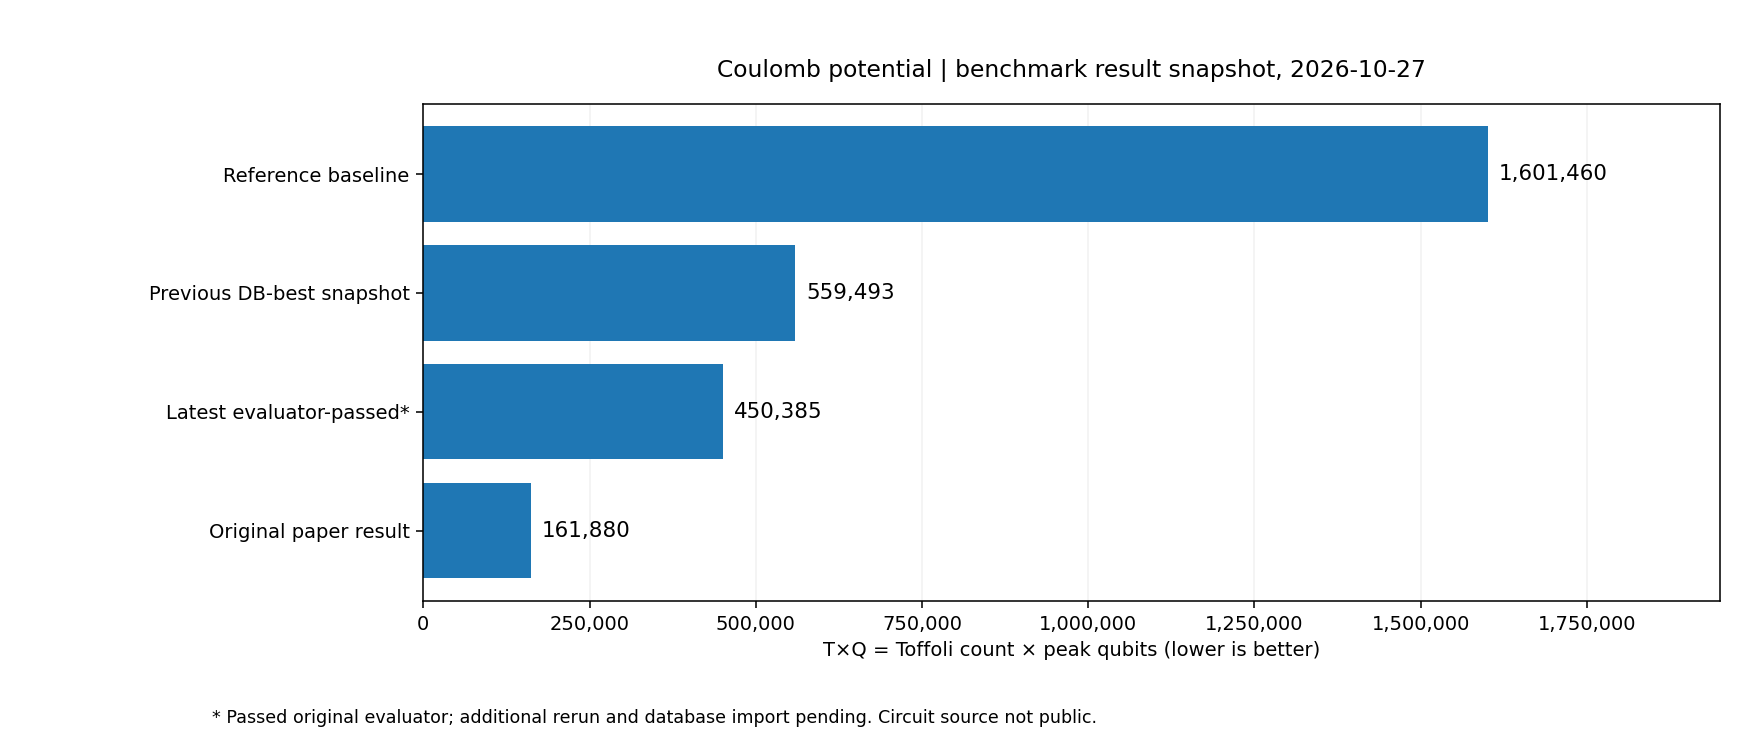
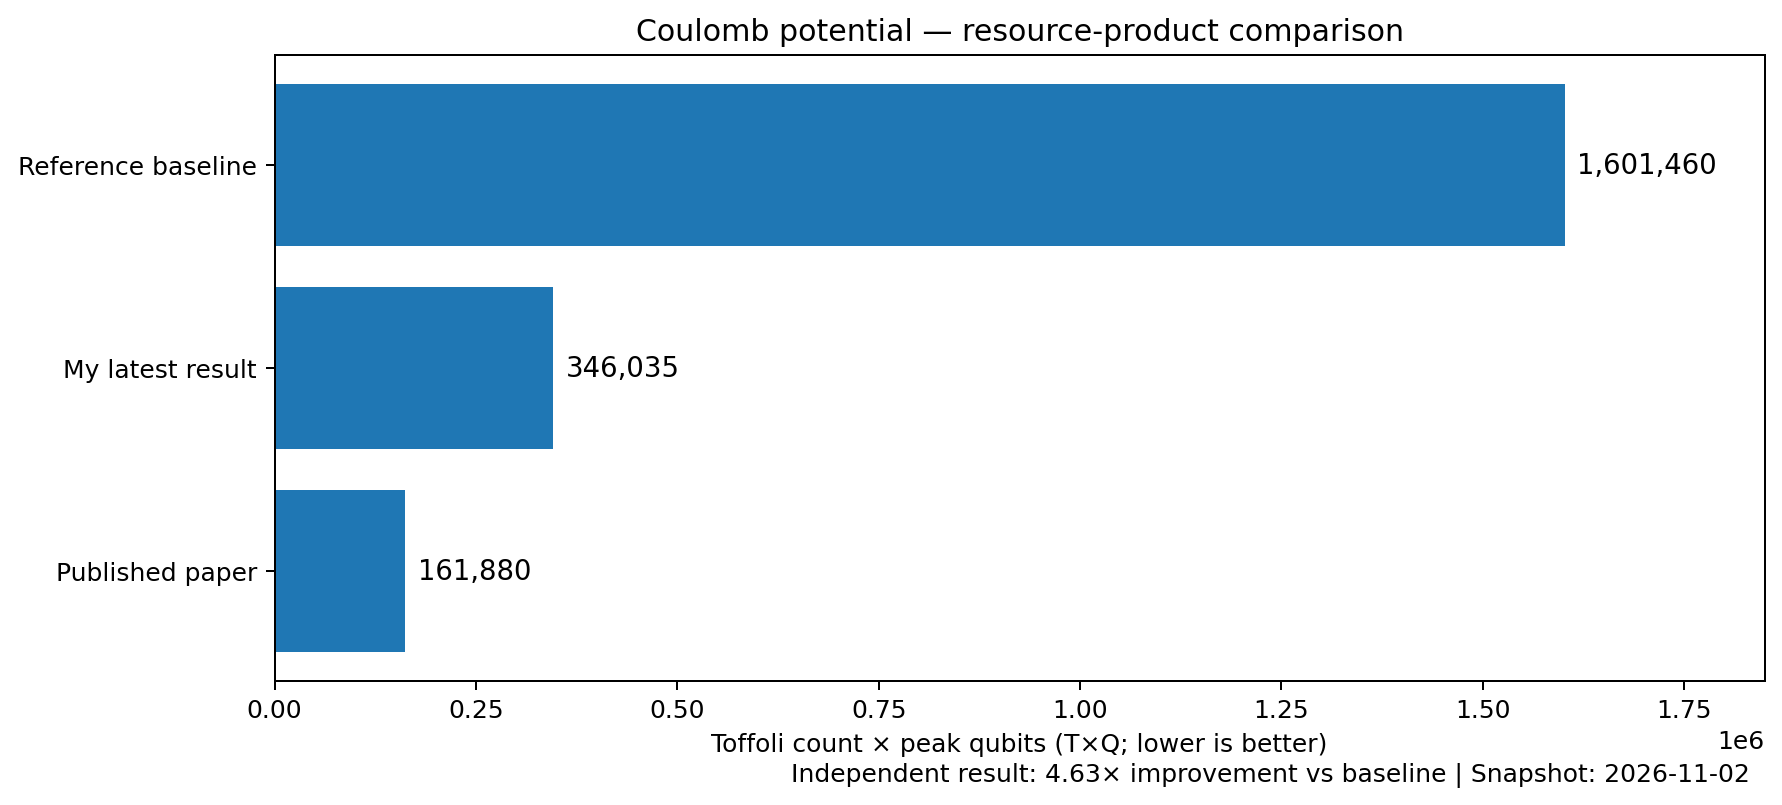
Update research results to v0.4 (2026-11-02)
Update Coulomb potential results to T×Q = 346,035 (4.63× improvement). Add preliminary A/B experiment findings, updated cost records, and revised benchmark comparison.

Changed region(s): [[0.0, 0.031, 0.9977, 0.9919], [0.9666, 0.8989, 0.9977, 0.9609]]

diff --git a/README.md b/README.md
@@ -1,47 +1,57 @@
-# LLM-Guided Quantum Circuit Optimization — Independent Research Notes
+# LLM-Assisted Quantum Circuit Optimization — Independent Research Notes
 
-**Public research note v0.3 · Coulomb potential · 2026-10-27 (Asia/Taipei)**
+**Public research note v0.4 · Coulomb potential · Research snapshot: 2026-11-02 (Asia/Taipei)**
 
-> **Work in progress; an early result report, not a reproducible software release.** The latest candidate passed the **original reference evaluator**, and its evaluation result and source snapshot were archived in the private research environment according to dated records. The candidate has **not yet been independently re-run or incorporated into the evolutionary database**. Neither its circuit source nor the evaluator log is included in this public note, so third parties cannot reproduce or verify the result from this repository alone.
+> **Work in progress.** This is a dated results report, **not** a runnable replication package or a state-of-the-art claim. The results below are documented in private VM audit and experiment handoff records. The latest candidate and complete evaluation logs have **not** been exported into this public repository; external reproduction is not yet possible from these files alone.
 
-## Research question
+## From a published result to an independent experiment
 
-Can a resource-conscious, independently assembled LLM-assisted workflow discover valid reductions in the resource cost of reversible quantum circuits?
+Inspired by Gu *et al.* (2026), [*Discovering state-of-the-art quantum circuits with large language models*](https://arxiv.org/abs/2610.22367), this project asks whether an independently assembled, resource-conscious LLM-assisted workflow can find better reversible quantum circuits. It combines a coding agent, evolutionary search, and the original [uncompute](https://github.com/andigu/uncompute) evaluator. Most of the study's implementation remains unpublished while experiments continue.
 
-This personal AI-for-Science experiment was inspired by **Gu, Kemeny, Yelin, and Lukin (2026)**, [*Discovering state-of-the-art quantum circuits with large language models*](https://arxiv.org/abs/2610.22367). It uses existing publicly available tools and the original research evaluator. **It does not claim to reproduce the authors' full system, invent LLM-and-evaluator-guided search, or match the published best result.**
+## Coulomb potential: updated result
 
-## Early result: Coulomb potential
+The resource-product objective is **T×Q**: Toffoli count × peak qubit count, **not** running time.
 
-The objective is **TQ = T × Q**, where T is the reference evaluator's Toffoli count and Q is its peak live-qubit count.
+| Result | T×Q | Improvement vs. baseline |
+|---|---:|---:|
+| Reference baseline | **1,601,460** | 1.00× |
+| This project's earlier public snapshot (2026-10-27) | **450,385** | 3.56× |
+| **Latest evaluator-validated result in the treatment database (2026-11-02)** | **346,035** | **4.63×** |
+| Gu *et al.* published result | **161,880** | 9.89× |
 
-| Comparison | Toffoli T | Peak qubits Q | TQ cost | Relative baseline gain |
-| --- | ---: | ---: | ---: | ---: |
-| Reference baseline | 6,355 | 252 | **1,601,460** | 1.00× |
-| Previously confirmed internal database best | — | — | **559,493** | 2.86× |
-| **Latest original-evaluator-passed candidate (2026-10-27)** | **2,197** | **205** | **450,385** | **3.56×** |
-| Published result of Gu *et al.* | 1,140 | 142 | **161,880** | 9.89× |
+The latest candidate reduces T×Q by **78.4%** versus baseline. The best candidate is recorded in an **isolated experimental database (117 programs)**. A separate production database (79 programs) remained at **348,775**, deliberately unchanged during this controlled comparison. **The T and Q components and full source for the 346,035 candidate have not yet been exported into the supplied handoff.** Evaluator acceptance is not a formal proof of functional equivalence.
 
-The latest evaluator-passed candidate represents a **71.9% reduction in TQ** versus the reference baseline. This is a quantum-circuit **resource-product metric**, not a measured runtime speedup. The original paper reported a substantially stronger result.
+![T×Q resource-product comparison](assets/tq_comparison.png)
 
-![Coulomb resource-product comparison](assets/tq_comparison.png)
+## Exploratory comparison: research-agent configurations
 
-### What the reported result means
+An exploratory five-round-per-arm comparison used two separately evolving experimental configurations, starting from identical databases of 79 candidates. **Configuration details are not yet disclosed**; the comparison is presented as an observed research outcome, not as evidence for a particular technique.
 
-- In the latest dated experiment, the original evaluator produced a `valid=true` result for a candidate with **T=2,197** and **Q=205**; the saved source and result snapshot were preserved and checked for file consistency, according to the internal handoff.
-- **An additional rerun, integration into the evolutionary database, and a post-import database check remain pending.** The latest *database* best in the available record is **559,493**. Thus **450,385 is the latest evaluator-passed candidate, not a confirmed database-best state**.
-- The reference evaluator uses specified tests, rather than an exhaustive formal proof of functional equivalence. A successful evaluator result is evidence under that test protocol; it is not a universal correctness guarantee.
-- The result is based on dated internal experiment records, **not independently audited by this public repository**.
+| Five-round outcome | Configuration A | Configuration B |
+|---|---:|---:|
+| Retained SHA-unique, evaluator-validated new candidates | 9 | **38** |
+| Best newly produced candidate T×Q | 415,529 | **346,035** |
+| Final database-wide best T×Q | 348,775 | **346,035** |
 
-The broader original study contains **eight benchmarks**; this experiment has currently explored **one**, Coulomb potential.
+Configuration B retained **4.22×** as many unique candidates, and its best newly produced candidate had **16.7%** lower T×Q than the best new candidate under A. However, the *final database-wide best* improved by only **0.79%** relative to the identical starting best of 348,775. These comparisons use **different denominators** and should not be conflated.
 
-## Scope and unpublished implementation
+**Limitations:** only five rounds per configuration; later runs did not use matched parents; candidates within a session are not statistically independent; the configurations differ in more than one respect. These observations **do not establish causality, statistical significance, or generalization** to the other seven benchmarks.
 
-At a high level, the experiment combines **an LLM coding agent, evolutionary search, and the original reference evaluator**. The full prompts, agent workflow, model settings, search policy, orchestration code, circuit sources, and search logs remain **unpublished research know-how**. Therefore, this is **not a runnable replication package**; neither a software release nor a complete reproducibility claim is implied.
+## Recorded research spending (billing snapshot, 2026-11-02)
 
-## Attribution and research status
+| Item | USD |
+|---|---:|
+| Google Cloud usage, after shown discounts, before tax | $96.00 |
+| Google Cloud tax shown | $5.00 |
+| DeepSeek API cumulative charges | $17.15 |
+| **Combined charges including shown tax** | **$118.15** |
 
-The project uses DeepSeek, OpenCode, OpenEvolve/MAP-Elites, and the original [uncompute evaluator](https://github.com/andigu/uncompute). See [references and attribution](REFERENCES.md), [result and evidence details](RESULTS.md), and [rights notice](RIGHTS.md).
+The author estimates approximately **$15–$20 of Google Cloud charges** arose from extended VM idle time. These are account charges, **not** a rigorous per-experiment cost or a controlled price/performance measurement. They include development and nonproductive time; the latest experiment's marginal costs have not been isolated.
 
-The experiment is ongoing. Future releases may update the results or add methods and reproducibility materials after the research and disclosure strategy is settled. Publication of this summary does not promise when or whether the unpublished implementation will be released.
+## Disclosure and attribution
 
-**Language:** [繁體中文](README_zh-TW.md)
+This project currently covers **one of eight tasks** in the paper. The evaluator, benchmark, general LLM/evolutionary search concepts, and third-party tools are credited in [REFERENCES.md](REFERENCES.md). The independent contributions so far include assembling and operating the workflow and documenting its empirical performance.
+
+Detailed prompts, agent configuration, orchestration, search policies, candidate source code, and private evaluation records are **not included**. We intend to publish a more complete implementation after the study is sufficiently mature and reviewed for safety, licenses, and attribution. See [RESULTS.md](RESULTS.md) and [RIGHTS.md](RIGHTS.md).
+
+[繁體中文](README_zh-TW.md) · [Earlier 2026-10-27 public result snapshot](data/public-results-2026-10-27.json)

diff --git a/README_zh-TW.md b/README_zh-TW.md
@@ -1,43 +1,57 @@
 # LLM 輔助量子電路最佳化：獨立研究紀錄
 
-**公開研究紀錄 v0.3｜Coulomb potential｜2026-10-27（臺灣時間）**
+**公開研究紀錄 v0.4｜Coulomb potential｜研究資料截至 2026-11-02（臺灣時間）**
 
-> **研究進行中；此為初步成果報告，不是可重現的程式釋出。** 最新候選已通過**原論文 Evaluator**，依交接紀錄，其評估結果與電路程式快照已備份並核對一致性；但**尚未完成額外重跑，也尚未回存演化資料庫**。此公開版本不含候選電路與評估日誌，外部讀者無法僅用本 repo 重現結果。
+> **研究仍在進行中。** 本專案目前是研究成果紀錄，**不是**完整可執行的重現套件，也不宣稱達到原論文最佳結果。下列數據依私人 GCP VM 稽核及交接紀錄整理；最新電路完整源碼與原始評估日誌尚未匯入公開 repo，因此外部無法僅憑本 repo 重現。
 
-## 研究問題
+## 研究背景
 
-以個人可負擔的模型與運算資源，結合 LLM Coding Agent、演化式搜尋及原始評估器，能否降低可逆量子電路的資源成本？
+受到 Gu 等人（2026）[《Discovering state-of-the-art quantum circuits with large language models》](https://arxiv.org/abs/2610.22367) 啟發，這項個人 AI for Science 研究嘗試以可負擔的 LLM、Coding Agent、演化搜尋及原作者公開的 [uncompute](https://github.com/andigu/uncompute) Evaluator，改善可逆量子電路的資源成本。
 
-這項個人 AI for Science 實驗受到 Gu 等人（2026）[《Discovering state-of-the-art quantum circuits with large language models》](https://arxiv.org/abs/2610.22367) 啟發。它並不宣稱重現原作者完整系統、發明此類搜尋方法，或達到原研究最佳結果。
+## Coulomb potential：最新結果
 
-## Coulomb potential：已取得的初步成果
+研究指標為 **T×Q＝Toffoli gate 數量 × 最大同時使用 qubit 數**，不是實際執行速度。
 
-目標指標為 **T×Q**：Toffoli gate 數目 T 乘以評估器計算的最大同時使用 qubit 數 Q。
+| 項目 | T×Q | 相對基準改善 |
+|---|---:|---:|
+| 原始基準 | **1,601,460** | 1.00 倍 |
+| 之前公開結果（2026/10/27） | **450,385** | 3.56 倍 |
+| **2026/11/02 實驗資料庫最新已驗證成果** | **346,035** | **4.63 倍** |
+| Gu 等人原論文最佳 | **161,880** | 9.89 倍 |
 
-| 比較對象 | Toffoli T | Qubits Q | T×Q 成本 | 相對基準改善 |
-| --- | ---: | ---: | ---: | ---: |
-| 原始基準 | 6,355 | 252 | **1,601,460** | 1.00 倍 |
-| 前次確認的資料庫最佳值 | — | — | **559,493** | 2.86 倍 |
-| **最新通過原 Evaluator 的候選（2026/10/27）** | **2,197** | **205** | **450,385** | **3.56 倍** |
-| 原論文報告的最佳值 | 1,140 | 142 | **161,880** | 9.89 倍 |
+最新成果相對基準將 T×Q **降低約 78.4%**，且已記錄於**隔離的實驗組資料庫（117 個程式）**。正式研究資料庫（79 個程式）的最佳值則維持 **348,775**，沒有在對照實驗時合併改寫。最新 346,035 電路的 T、Q 分量與完整程式碼尚未從 VM 匯出到此次交接包，不應臆測其架構。通過 Evaluator 也不等於完成形式化正確性證明。
 
-最新候選相對基準將 T×Q **降低約 71.9%**；這是電路資源指標，**不是執行時間縮短 3.56 倍**。原論文成果仍顯著優於目前結果。
+![Coulomb T×Q 資源成本比較圖](assets/tq_comparison.png)
 
-![Coulomb T×Q 成本比較](assets/tq_comparison.png)
+## 初步對照實驗：不同研究 Agent 設定
 
-### 驗證層級與目前狀態
+兩組各五輪，從相同的 79 個初始候選分別建立資料庫，觀察不同 Research Agent 設定的搜尋結果。**具體設定與調整策略暫不公開**；此處僅報告探索性觀察，不將差異歸因於特定機制。
 
-- 依最新實驗交接紀錄，原始 Evaluator 對此候選回報 **`valid=true`**，並測得 **T=2,197、Q=205**；相關程式及結果快照已備份，並做過檔案一致性核對。
-- **額外重跑、資料庫回存及回存後檢查仍未完成。** 因此，450,385 是「**目前最佳已通過原 Evaluator 的候選**」，不是「目前已確認的資料庫最佳值」。前一次資料庫快照的最佳仍是 559,493。
-- 原 Evaluator 按其指定測試檢查行為，**並不構成全部輸入情況的形式化正確性證明**。
-- 這些資訊來自有日期的私人交接與執行紀錄，並非已對外公開、可第三方獨立稽核的證據。
+| 五輪結果 | 設定 A | 設定 B |
+|---|---:|---:|
+| 保留且 SHA 唯一的已驗證新候選 | 9 | **38** |
+| 五輪最佳新候選 T×Q | 415,529 | **346,035** |
+| 最後資料庫全域最佳 T×Q | 348,775 | **346,035** |
 
-目前僅探索原研究**八項任務中的 Coulomb potential 一項**。
+設定 B 保留的不同新候選數為設定 A 的 **4.22 倍**；兩組「五輪最佳新候選」的 T×Q 相差約 **16.7%**。不過，若比較「資料庫最後全域最佳」，則僅較共同起點 **348,775 下降 0.79%**，這兩種比較口徑不能混用。
 
-## 公開範圍及未公開 know-how
+**限制：**每組僅五輪；後續 Parent 未一一配對；同一 Session 的候選並非統計獨立；兩組設定有多項差異。因此**不能推論特定機制的因果效果**，也不能宣稱統計顯著或可推廣至其他七個任務。
 
-研究大方向是 LLM Coding Agent、演化搜尋與原 Evaluator 的整合；**完整 Prompt、Agent 工作流程、演化／挑選設定、控制器程式、候選電路及實驗日誌暫不公開**。因此本 repo 是**研究進度紀錄，而非完整開源重現套件**。
+## 累計帳單（2026/11/02 截圖）
 
-使用的 DeepSeek、OpenCode、OpenEvolve/MAP-Elites 與原作者 [uncompute 評估器](https://github.com/andigu/uncompute)，均於[引用與致謝](REFERENCES.md)標示來源。更多細節見[結果與驗證狀態](RESULTS.md)及[權利說明](RIGHTS.md)。研究仍在進行中，後續視成果、可重現性及發表規劃再決定公開方式。
+| 項目 | 美元 |
+|---|---:|
+| Google Cloud 顯示折扣後、未稅小計 | $96.00 |
+| Google Cloud 顯示稅金 | $5.00 |
+| DeepSeek API 累計消費 | $17.15 |
+| **合計（含畫面稅金）** | **$118.15** |
 
-[English README](README.md)
+其中你估計約 **$15–$20 的 GCP 費用來自 VM 長時間閒置**。這是已記錄的帳單金額，**不是單次實驗的純運算成本**；尚未核算完整的每次搜尋／每美元表現。
+
+## 公開範圍
+
+研究目前僅涵蓋原論文**八項任務中的一項**。原論文、任務、Evaluator 以及第三方工具皆於 [REFERENCES.md](REFERENCES.md) 標明出處；目前的獨立工作包括系統整合、實驗執行與結果整理。
+
+完整 Prompt、Agent 設定、控制器、演化策略、候選電路及私有日誌**暫不公開**，未來研究更成熟後，計畫整理可重現的程式與證據再釋出。詳見 [RESULTS.md](RESULTS.md)、[RIGHTS.md](RIGHTS.md)。
+
+[English README](README.md) · [2026/10/27 舊版成果紀錄](data/public-results-2026-10-27.json)

diff --git a/RESULTS.md b/RESULTS.md
@@ -1,25 +1,47 @@
-# Coulomb potential — results and evidence status
+# Coulomb Potential — Results and Evidence Status
 
-**Dated snapshot:** 2026-10-27, Asia/Taipei. **Work in progress.** This is a public progress report, not a runnable replication package.
+**Public snapshot: 2026-11-02 (Asia/Taipei).** Private-VM audit and handoff summary, not an independent execution of the quantum evaluator by this public repository.
 
-| Metric | Value | Status |
-| --- | ---: | --- |
-| Baseline TQ | 1,601,460 | Reference baseline |
-| Previous confirmed internal database best | 559,493 | Earlier database/preflight record |
-| **Latest original-evaluator-passed candidate** | **450,385** | **Original evaluator `valid=true`; preserved result/source snapshot** |
-| Latest candidate T / Q | 2,197 / 205 | Original evaluator measurements |
-| Relative improvement against baseline | 3.556× | Baseline / latest evaluated candidate |
-| Relative TQ cost reduction | 71.877% | `(1 - 450385 / 1601460) × 100` |
-| Published reference-paper result | 161,880 | Gu et al. (2026) |
-| Original benchmark tasks explored | 1 of 8 | Coulomb only |
+## Benchmark and achieved progress
 
-## Two different statuses, neither concealed nor conflated
+| Stage | T×Q | Baseline / T×Q | State |
+|---|---:|---:|---|
+| Reference baseline | 1,601,460 | 1.000× | From original benchmark |
+| 2026-10-27 previously published candidate | 450,385 | 3.556× | Earlier original-evaluator-passed candidate; now historical |
+| 2026-11-01 production database | 348,775 | 4.592× | Validated historical best, 79 programs |
+| **2026-11-02 experimental treatment database** | **346,035** | **4.628×** | **Evaluator-validated, recorded in isolated DB of 117 programs** |
+| Gu *et al.* (2026) reported result | 161,880 | 9.893× | Original study |
 
-1. **Original-evaluator-passed result (450,385):** According to the dated internal handoff, a test on the original evaluator yielded `valid=true`, with an archived, file-consistency-checked circuit and result snapshot. This is **the strongest evaluated candidate reported so far**.
-2. **Database acceptance (last known best 559,493):** A subsequent validation rerun and import into the MAP-Elites database have not occurred for the 450,385 candidate as of this handoff. This is a **workflow/storage status**, not evidence that the reference evaluator rejected the new candidate.
+The latest result represents a 78.4% T×Q reduction relative to the baseline, versus 71.9% at the 2026-10-27 public snapshot. The original paper remains substantially ahead.
 
-The evaluator checks specified behaviors on selected inputs and computes resource counts. **Evaluator acceptance is not formal proof of circuit equivalence**. Because neither the candidate source nor original evaluator report is supplied in this public note, an external reader cannot audit or reproduce the result from this repository alone.
+**Evidence level:** The handoff records report the treatment database's best as T×Q=346,035, with a latest read-only safety preflight marked PASS. They do **not** contain the full latest VM database or the newly best candidate's exported code and original evaluator log; accordingly, the public report cannot be independently reproduced from this repository. The separate production database remains at 348,775 by design. No T or Q breakdown is asserted for the latest candidate.
 
-The internal experiment may continue; these are dated, non-live figures. Full agent instructions, evolutionary search policies, orchestration code, candidate circuit sources, and detailed logs remain unpublished.
+## Exploratory five-round comparison (two configurations)
 
-The structured public summary is in [data/public-results-2026-10-27.json](data/public-results-2026-10-27.json).
+| Metric | Configuration A | Configuration B |
+|---|---:|---:|
+| Initial database size | 79 | 79 |
+| Completed rounds | 5 | 5 |
+| Retained, SHA-unique validated offspring | 9 | **38** |
+| Mean retained offspring per round | 1.8 | **7.6** |
+| Best newly produced candidate T×Q | 415,529 | **346,035** |
+| Final database count | 88 | **117** |
+| Final overall best T×Q | 348,775 | **346,035** |
+
+The two configurations differed in multiple undisclosed implementation choices, and independent ablations have not been performed. The 38:9 count concerns SHA-unique retained candidate snapshots, **not** 38 vs 9 independent sessions. Only the initial parent was matched; later selections diverged. These observations **do not establish a causal advantage**, statistical significance, or per-dollar efficiency.
+
+**Comparison discipline:** best *new* candidate differs by 16.72%; final *database-wide* best differs by 0.786%. It would be misleading to report the first percentage as the overall DB improvement.
+
+## Cost snapshot (accounts, not per-trial costs)
+
+- GCP usage after shown discount: **$96.00 before tax**, plus **$5.00 displayed tax**. The underlying pre-discount usage is $109.06 and the applied discount is $13.06.
+- DeepSeek recorded cumulative charges: **$17.15**.
+- Combined **$113.15 before GCP tax**, or **$118.15 including the displayed tax**.
+- Author estimates **$15–$20** of GCP charges were due to an idle VM over several days, not active research computation.
+- No detailed 5+5 run-specific GPU/CPU/API spend ledger or attribution of fixed/idle costs is available. This is **not** a measured cost per valid candidate or evidence of a controlled price/performance advantage over the original study.
+
+## Status and reproducibility
+
+The research covers one of eight original benchmarks. Validation uses the original benchmark's test protocol rather than a formal proof for all inputs. Full agent instructions, orchestration source, experimental selection policies, the latest circuit, and evaluation logs are not released. See [RIGHTS.md](RIGHTS.md) and [REFERENCES.md](REFERENCES.md).
+
+Structured data: [2026-11-02 snapshot](data/public-results-2026-11-02.json); [2026-10-27 historical snapshot](data/public-results-2026-10-27.json).
